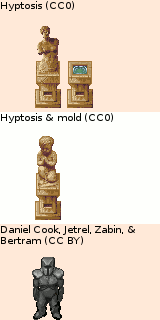
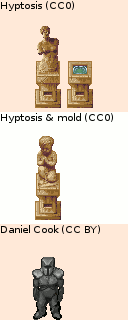
Update attribution info for stone armor statue tileset

Changed region(s): [[0.0, 0.4062, 0.8438, 1.0], [0.0, 0.0625, 0.9062, 0.4062], [0.0, 0.0, 0.5938, 0.0312]]

diff --git a/collection/statues-fountains/sources.md b/collection/statues-fountains/sources.md
@@ -13,7 +13,7 @@
 
 [OpenGameArt.org submission](https://opengameart.org/node/81798)
 
-By [Daniel Cook](https://plus.google.com/+DanielCookGameDesign), [Jetrel](https://opengameart.org/user/402), [Zachariah Husiar (Zabin)](https://opengameart.org/user/3356), & [Bertram](https://opengameart.org/user/665):
+By [Daniel Cook](https://plus.google.com/+DanielCookGameDesign):
 - stone armor from [2d Lost Garden Zelda style tiles resized to 32x32 with additions](https://opengameart.org/node/11758) (CC BY 3.0)
 
 By [Hyptosis](https://opengameart.org/user/2937):
